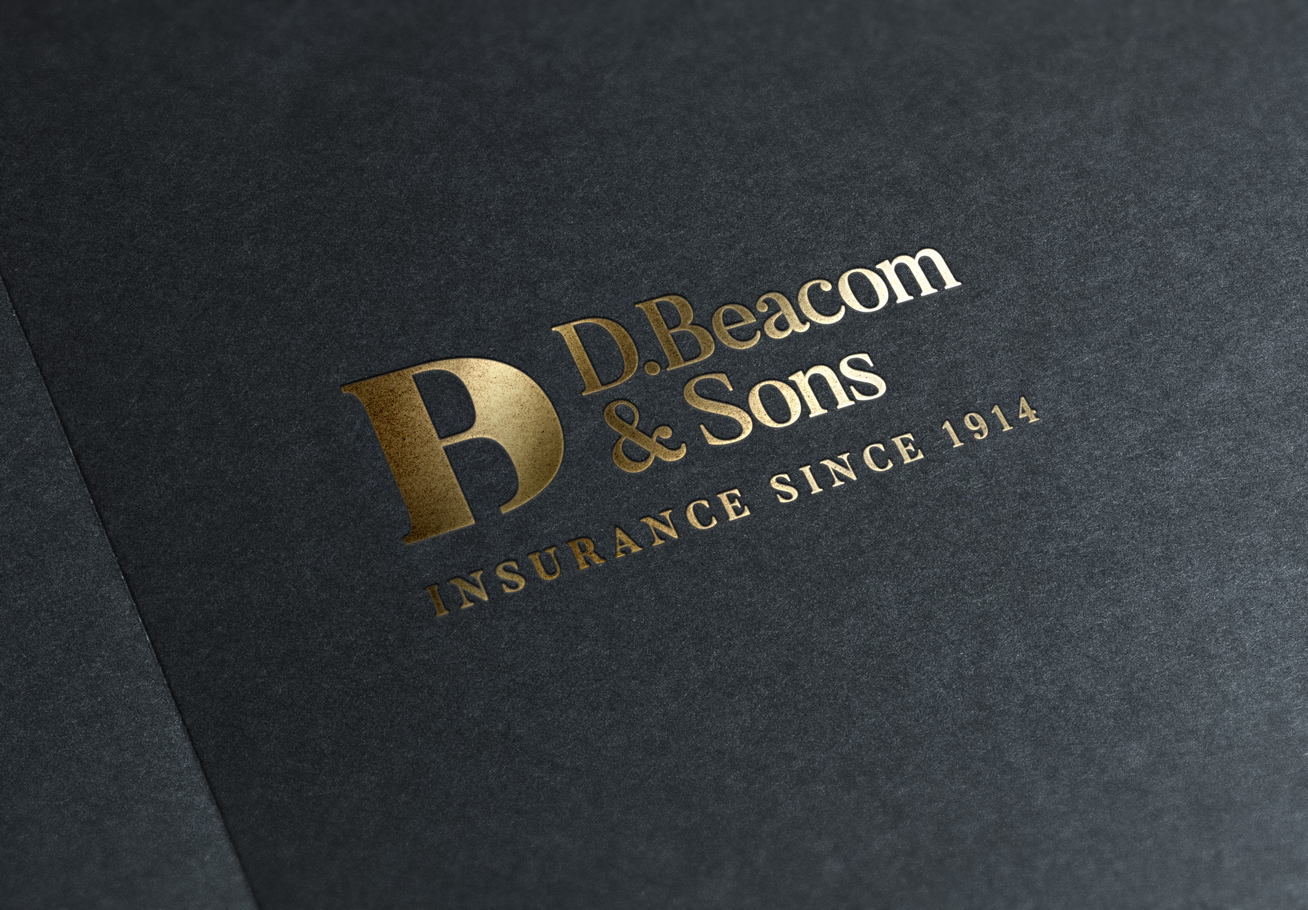
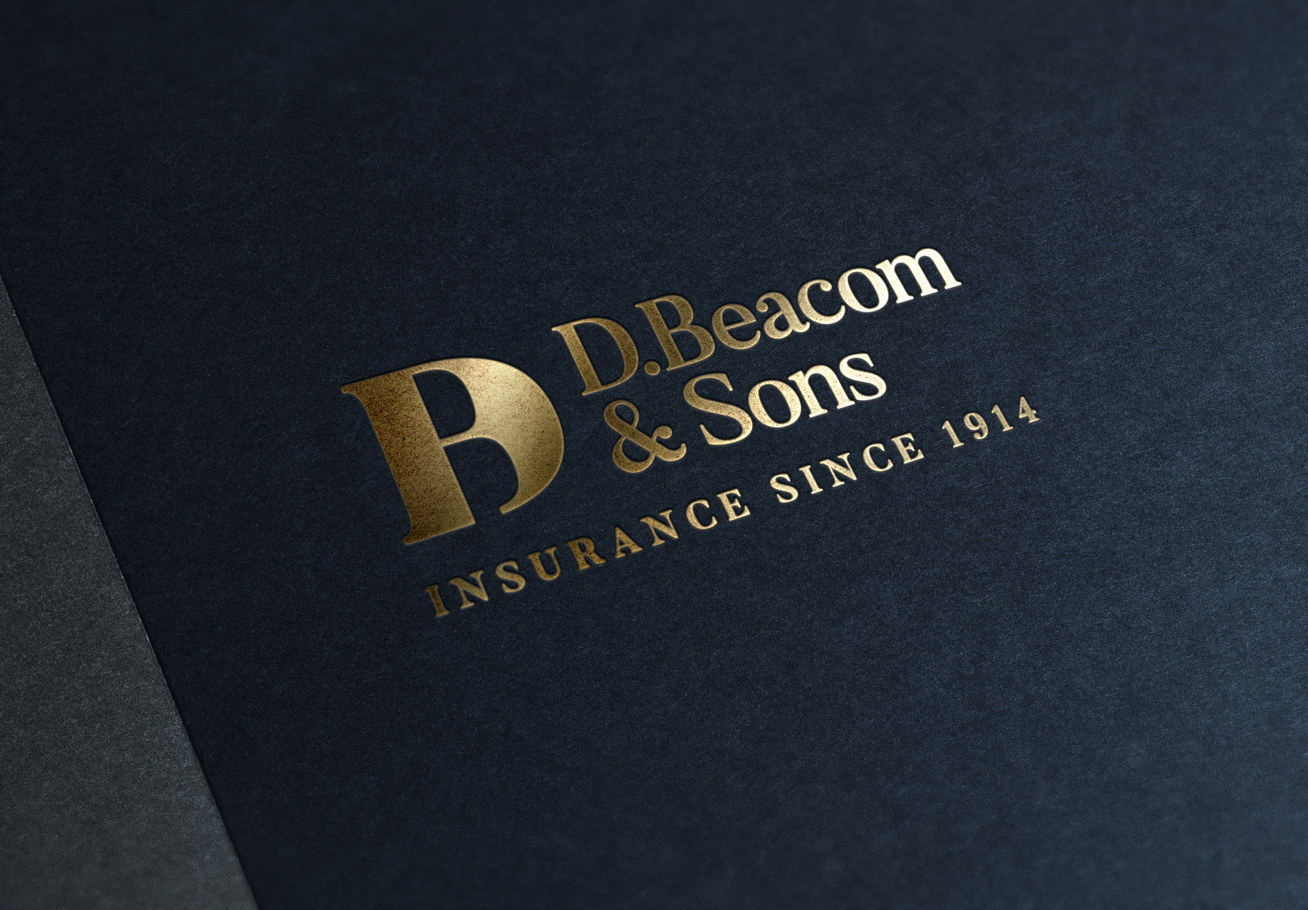
new db-1-2 image, adding mockup page

Changed region(s): [[0.3704, 0.0, 1.0, 1.0], [0.4939, 0.9375, 0.5248, 0.9688], [0.4013, 0.375, 0.4322, 0.4062]]

diff --git a/dbeacom.html b/dbeacom.html
@@ -4,7 +4,7 @@
   <meta charset="utf-8">
   <link rel="shortcut icon" href="img/favicon.ico" type="image/x-icon">
   <link rel="icon" href="img/favicon.ico" type="image/x-icon">
-  <title>JRS⁸⁶ | Bowers Floor Coverings</title>
+  <title>JRS⁸⁶ | D.Beacom &amp; Sons</title>
   <meta name="description" content="">
   <meta name="viewport" content="width=device-width, initial-scale=1">
   <link rel="stylesheet" href="css/stylesheet.css">
@@ -19,7 +19,7 @@
       opacity: 1 !important;
     }
     main, .glitch-btn:hover .glitch::before, .glitch-btn:hover .glitch::after, ::-webkit-scrollbar-thumb {
-      background-color: rgb(237, 27, 36);
+      background-color: rgb(44, 73, 105);
     }
   </style>
 </head>
@@ -55,47 +55,18 @@
 
   <section class="row">
     <div class="w--1of1">
-      <img src="img/projects/bfc/bfc-main.jpg" alt="" />
+      <img src="img/projects/dbeacom/db-1-1.jpg" alt="" />
     </div>
   </section>
 
   <section class="row">
     <div class="w--3of5 o--2of5 pinned">
-      <h4>Bowers Floor Coverings</h4>
+      <h4>D.Beacom &amp; Sons</h4>
       <p>Eddie 'Pooh' Bowers has been in the family business building houses for his entire life. Only recently has he decided to branch off on his own ventures, but he has the experience, connections, and equipment to get up and running quickly. In the Spring of 2016, Bowers Floor Coverings made its debut.</p>
       <hr class="chunk">
     </div>
     <div class="w--2of5 pinned">
-      <img src="img/projects/bfc/bfc-cards.jpg" alt="" />
-    </div>
-    <div class="w--3of5 pinned">
-      <img class="shadowed" src="img/projects/bfc/bfc-1-4.jpg" alt="" />
-    </div>
-    <div class="w--2of5 pinned">
-      <p>Eddie didn't have a particular direction in mind, only that his brand look synonymous to the flooring installations he's best known for: <strong>bold, sturdy, sharp, consistent.</strong></p>
-      <hr class="chunk">
-    </div>
-    <div class="w--1of5 pinned hide">
-      <hr class="chunk">
-    </div>
-    <div class="w--2of5 pinned">
-      <img src="img/projects/bfc/bfc-1-1.jpg" alt="" />
-    </div>
-    <div class="w--2of5 pinned">
-      <img class="shadowed" src="img/projects/bfc/bfc-1-3.jpg" alt="" />
-    </div>
-    <div class="w--2of5 pinned">
-      <p>I detailed out a crispy new look for Eddie to run with, using a process red over a delicate orange base to create a sunbathed hue warm enough to make your cheeks tingle.</p>
-      <hr class="chunk">
-    </div>
-    <div class="w--1of5 pinned hide">
-      <hr class="chunk">
-    </div>
-    <div class="w--1of5 pinned hide">
-      <hr class="chunk">
-    </div>
-    <div class="w--4of5 pinned">
-      <img src="img/projects/bfc/bfc-1-5.jpg" alt="" />
+      <img src="img/projects/dbeacom/db-1-2.jpg" alt="" />
     </div>
   </section>
 </main>

diff --git a/sss.html b/sss.html
@@ -18,7 +18,7 @@
     .lazy-loaded {
       opacity: 1 !important;
     }
-    .glitch-btn:hover .glitch::before, .glitch-btn:hover .glitch::after, ::-webkit-scrollbar-thumb {
+    main, .glitch-btn:hover .glitch::before, .glitch-btn:hover .glitch::after, ::-webkit-scrollbar-thumb {
       background-color: rgb(107, 161, 185);
     }
   </style>
@@ -36,7 +36,7 @@
   </defs>
 </svg>
 
-<main style="background-color: rgb(107, 161, 185);">
+<main>
   <a class="skip-main" href="#main" tabindex="-1">Skip to main content</a>
   <header class="row">
     <div class="w--3of5 pinned">
